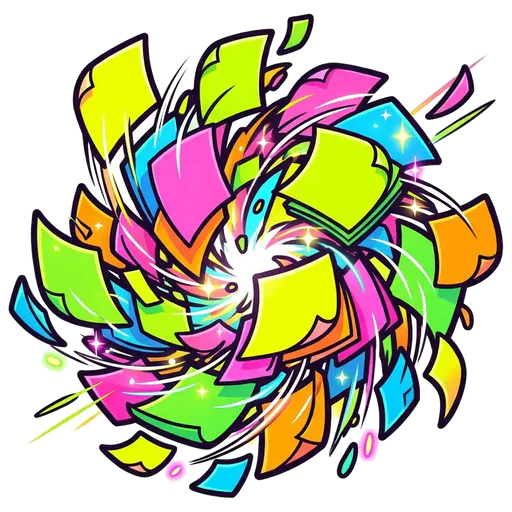
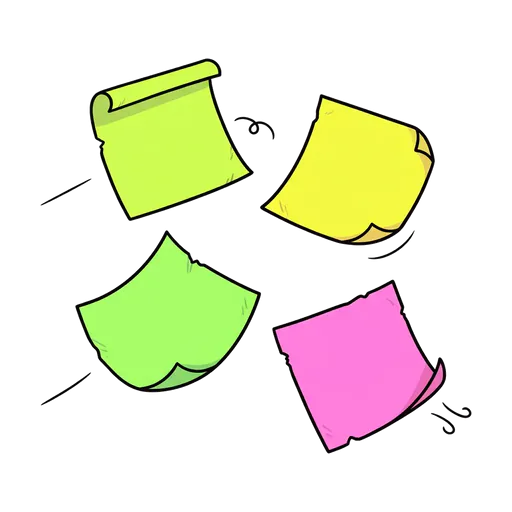
art(office): loose sticky-note cluster for the post-it prop

diff --git a/public-office/art/SOURCES.md b/public-office/art/SOURCES.md
@@ -99,7 +99,7 @@ AI-generated for the fictional company 야근상사: no real people, brands, log
 | `prop-paper-plane.webp` | nano_banana_flash | $STYLE. Single game obstacle prop icon, centered, large and bold with a very thick dark outline, on a pure flat white background, no shadow, no ground. The object: two plain folded paper airplanes flying side by side to the left, one bright neon lime-green and one bright neon yellow, crisp geometric folds, small speed swooshes behind. Plain paper objects only: no faces, no eyes, no characters, no riders, no writing. |
 | `prop-papers.webp` | nano_banana_flash | $STYLE. Single game obstacle prop icon, one object only, centered, large and bold with a very thick dark outline and saturated neon accent colors so it reads clearly at small size against pastel mint backgrounds, slight three-quarter view, on a pure flat white background, no shadow, no ground, no people, no hands. The object: a toppling tall stack of colorful office folders and binders in hot pink, neon orange, cobalt blue and lime green with a few blank papers sliding out sideways, blank labels. |
 | `prop-pointer.webp` | nano_banana_flash | $STYLE. Single game obstacle prop icon, one object only, centered, large and bold with a thick dark outline and saturated neon accent colors so it reads clearly at small size against pastel backgrounds, slight three-quarter view, on a pure flat white background, no shadow, no ground, no people, no hands. The object: a row of glowing neon red laser pointer dots with a thin red beam line, horizontal. |
-| `prop-postit.webp` | nano_banana_flash | $STYLE. Single game obstacle prop icon, one object only, centered, large and bold with a thick dark outline and saturated neon accent colors so it reads clearly at small size against pastel backgrounds, slight three-quarter view, on a pure flat white background, no shadow, no ground, no people, no hands. The object: a burst cluster of neon yellow, pink and green sticky notes flying in a swirl, all blank. |
+| `prop-postit.webp` | nano_banana_flash | $STYLE. Single game obstacle prop icon on a pure flat white background, no shadow, no ground, no people, no hands. The object: a loose airy cluster of exactly four separate square sticky notes fluttering through the air toward the LEFT, one neon pink, one neon yellow, two neon green, each slightly tilted and curling, very thick dark outlines, small speed swooshes trailing on the right side, generous empty space between the notes, all notes blank with no writing. |
 | `prop-revolving-door.webp` | nano_banana_flash | $STYLE. Single game obstacle prop icon, one object only, centered, large and bold with a thick dark outline and saturated neon accent colors so it reads clearly at small size against pastel backgrounds, slight three-quarter view, on a pure flat white background, no shadow, no ground, no people, no hands. The object: a glass revolving door spinning fast with swirl motion lines. |
 | `prop-robot.webp` | nano_banana_flash | $STYLE. Single game obstacle prop icon, one object only, centered, large and bold with a thick dark outline and saturated neon accent colors so it reads clearly at small size against pastel backgrounds, slight three-quarter view, on a pure flat white background, no shadow, no ground, no people, no hands. The object: a cute round cleaning robot vacuum zooming along with a little mop, neon cyan light. |
 | `prop-whiteboard.webp` | nano_banana_flash | $STYLE. Single game obstacle prop icon, one object only, centered, large and bold with a thick dark outline and saturated neon accent colors so it reads clearly at small size against pastel backgrounds, slight three-quarter view, on a pure flat white background, no shadow, no ground, no people, no hands. The object: a rolling whiteboard on wheels charging forward, blank board, wheel motion lines. |
@@ -207,3 +207,4 @@ GPT Image 2.5 (`gpt_image_2_5`, medium, transparent) → trimmed, contained with
 | `collect-envelope.webp` | gpt_image_2_5 | Single game pickup item icon, one object only, centered and filling most of the square, very thick dark outline, bold simple shapes, saturated colors with neon accents, bright Korean webtoon comic style, cel shading, readable at 32 pixels, transparent background, no text, no letters, no numbers, no logos. The item: a plain golden envelope with a red seal, glowing. |
 
 v2 feel review (2026-10-29): prop-golf (ball only) and prop-paper-plane (neon planes, no faces) regenerated and mirrored to travel LEFT (the renderer flips only rear attacks); floor-3 and floor-0-dawn regenerated calmer (no speckle / reflections), soften 0.25 / 0.2, mirror-tiled.
+prop-postit regenerated (loose 4-note cluster), contained with a 40 px margin so it keeps air around it.
